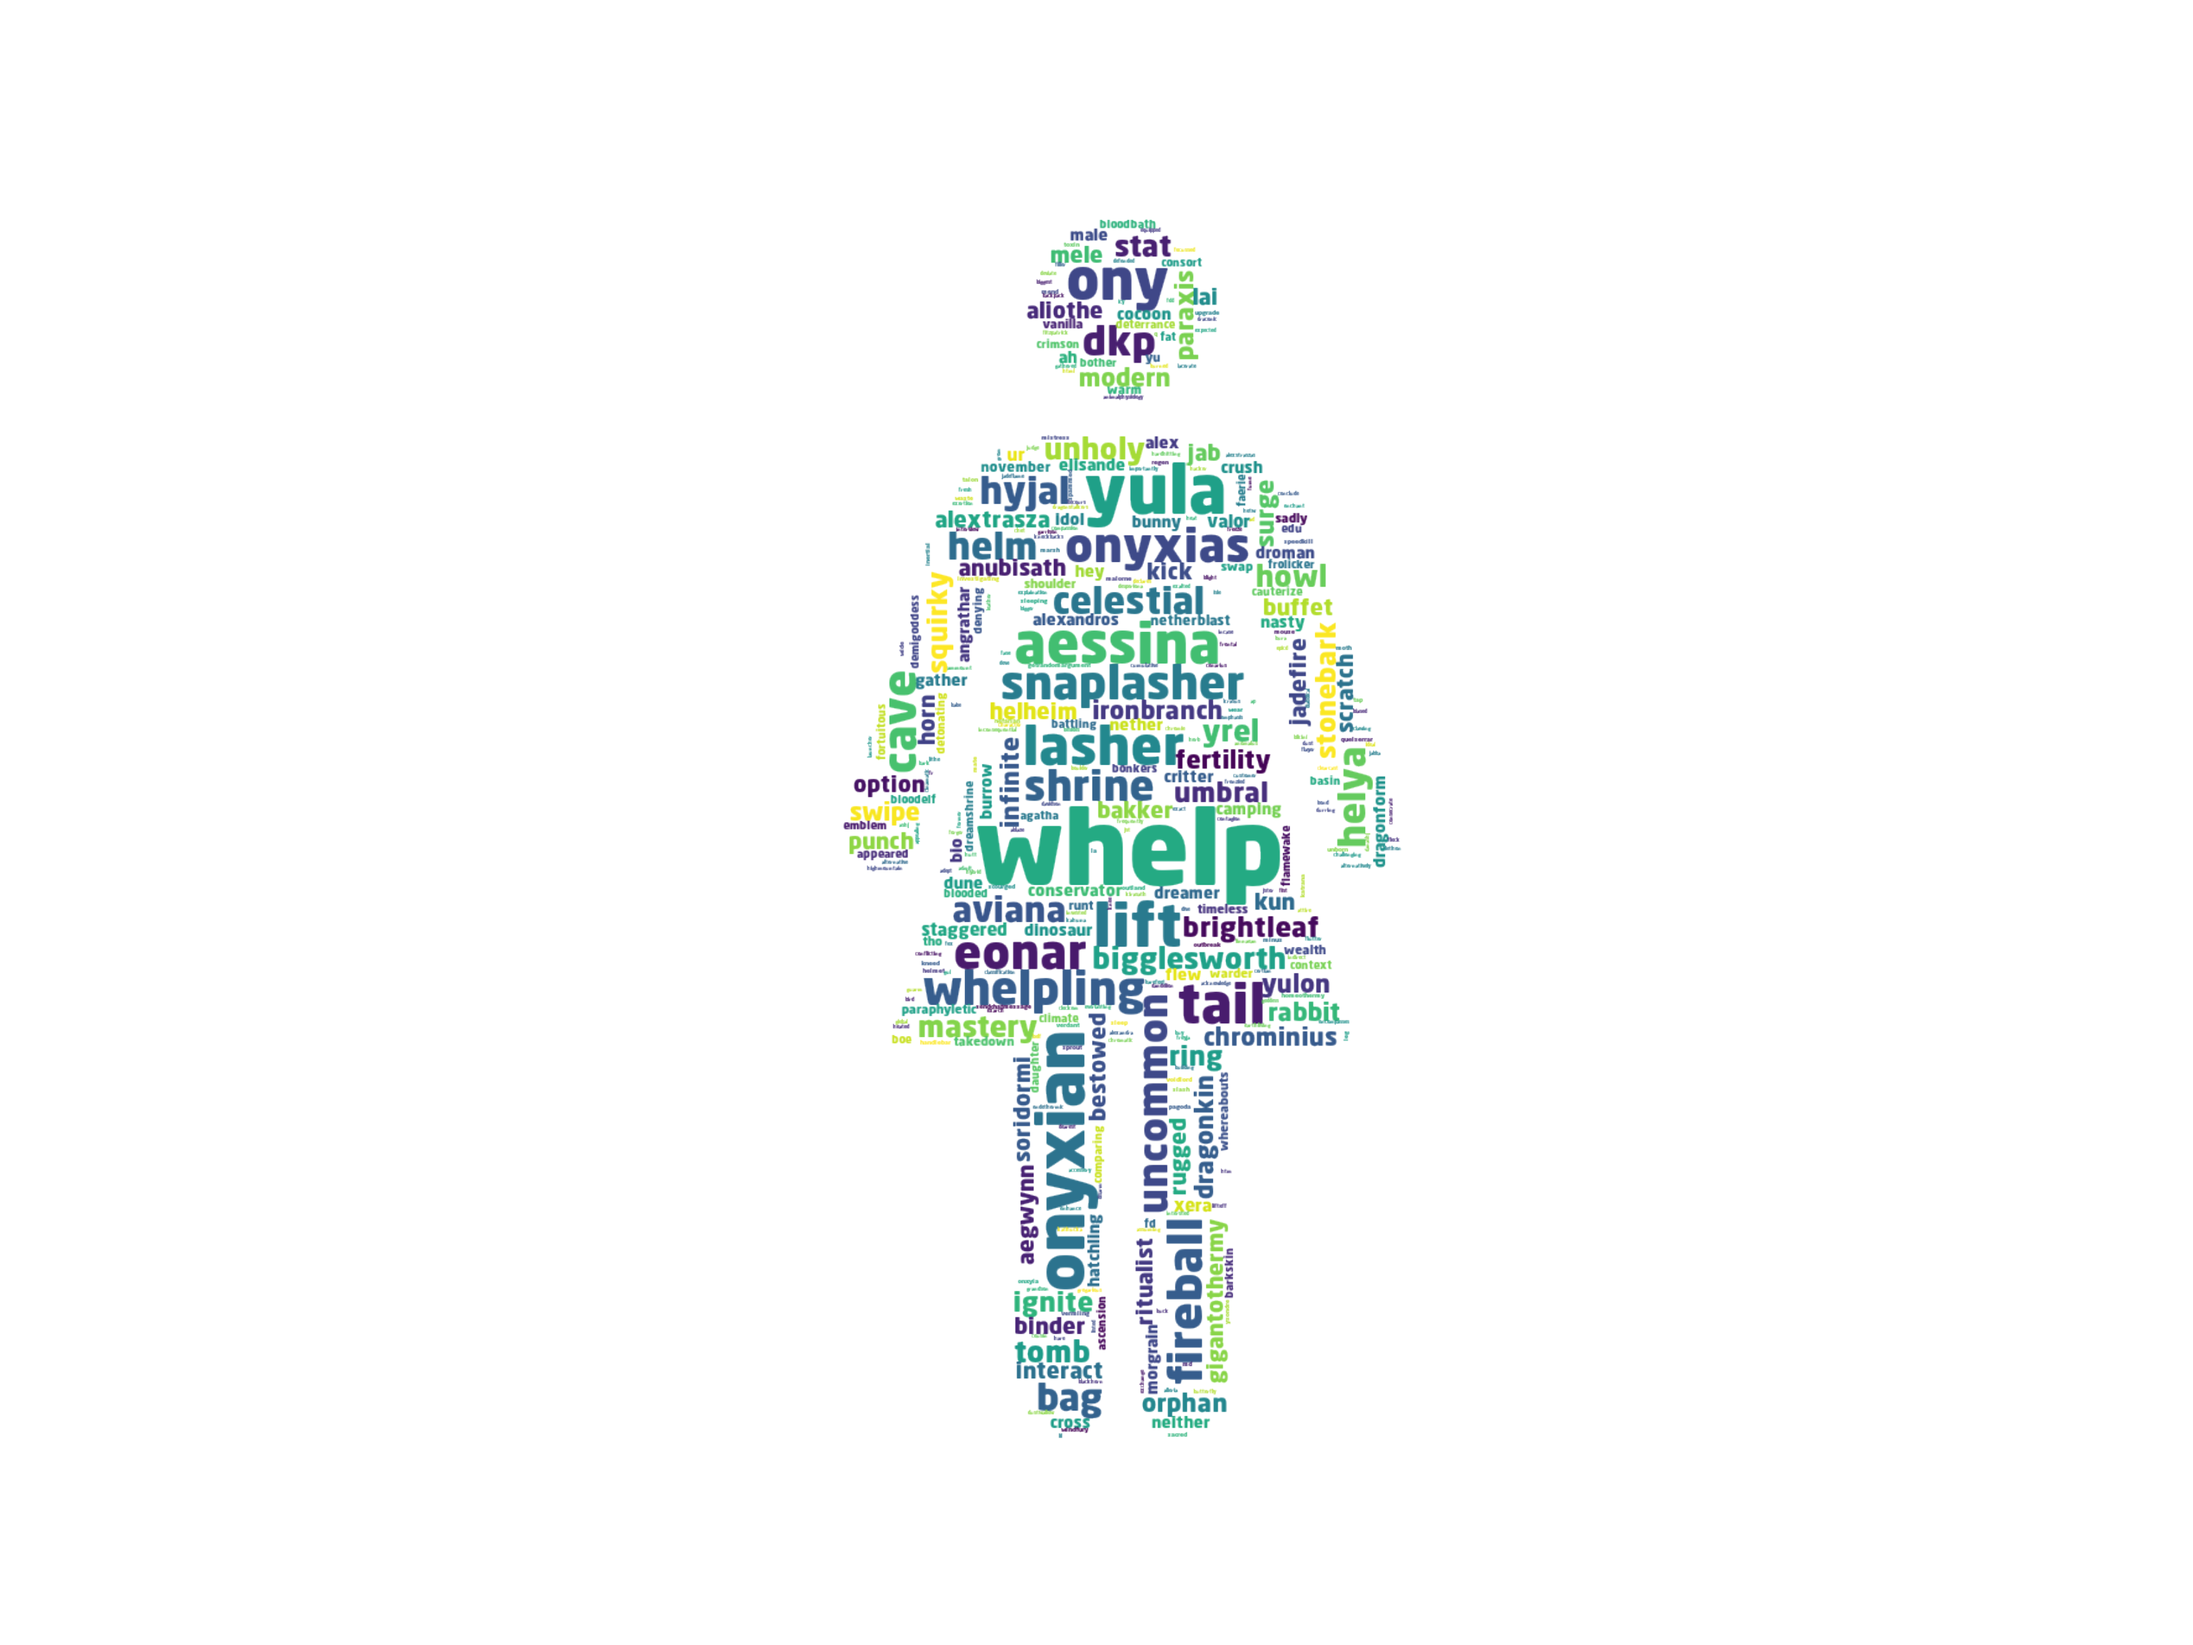
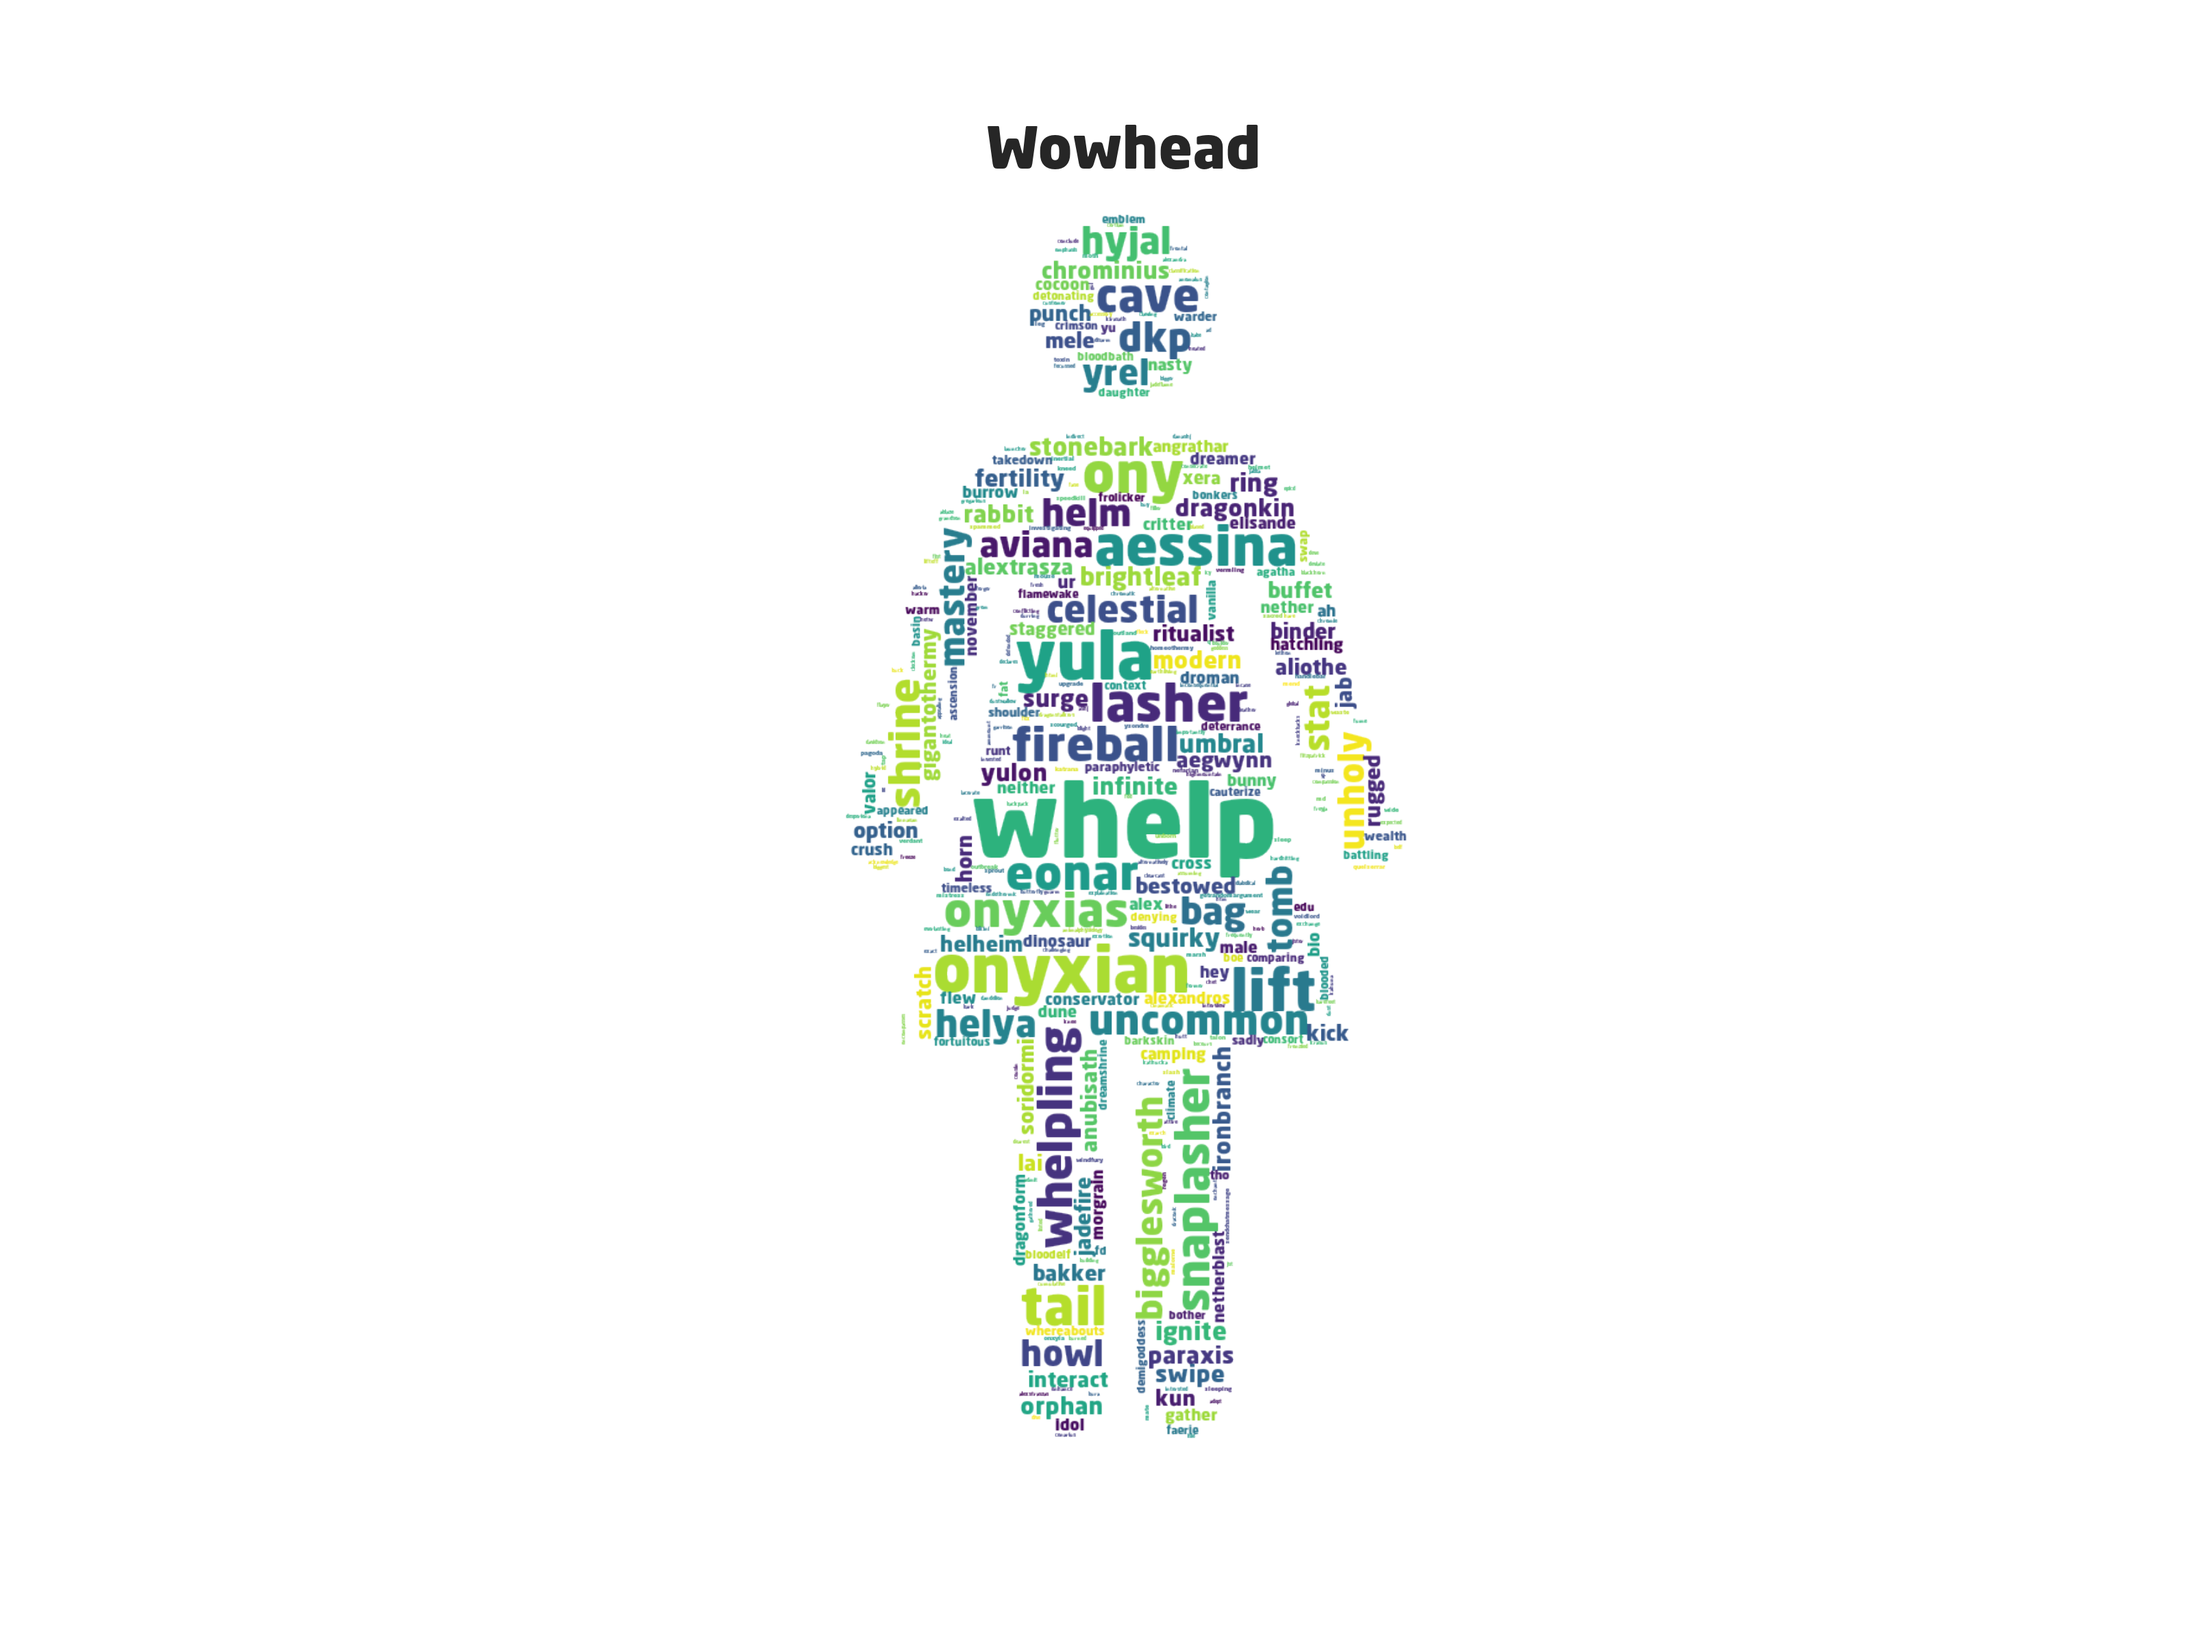
update wordclouds with font

Changed region(s): [[0.375, 0.0625, 0.6562, 0.875]]

diff --git a/text_analysis.py b/text_analysis.py
@@ -108,8 +108,8 @@ for attr in attr_lookup:
     col = pickle.load(open(PATH_RES + attr + '_dict.json', 'rb'))
     for split in attr_lookup[attr]:
         filename = PATH_PLOTS + f'wc_{split}.png'
-        if os.path.isfile(filename):
-            continue
+        # if os.path.isfile(filename):
+        #     continue
 
         # get mask if present
         maskpath = f'./store/masks/{split}.jpg'
@@ -118,6 +118,7 @@ for attr in attr_lookup:
         
         disp_wordcloud(
             split, col,
+            title=source.title(),
             savepath=filename, 
             maskpath=maskpath, 
         )
@@ -126,10 +127,11 @@ for attr in attr_lookup:
 col = pickle.load(open(PATH_RES + 'Louvain_dict.json', 'rb'))
 for i, com_name in enumerate(com_names):
     filename = PATH_PLOTS + f'wc_com_{i}.png'
-    if os.path.isfile(filename):
-            continue
+    # if os.path.isfile(filename):
+    #         continue
     
     disp_wordcloud(
         i, col,
+        title=source.title(),
         savepath=filename
     )

diff --git a/text_helpers.py b/text_helpers.py
@@ -5,6 +5,9 @@ from PIL import Image
 from tqdm import tqdm
 from wordcloud import WordCloud
 import matplotlib.pyplot as plt
+from matplotlib import font_manager as fm
+
+FONT_PATH = "./store/NeoSans Black.otf"
 
 
 def init_collection(df, attr, path_words, words_corpus):
@@ -100,16 +103,19 @@ def disp_wordcloud(col_idx, collection, maskpath='', savepath='', title=''):
             mask=mask,
             background_color="rgba(255, 255, 255, 0)", 
             mode="RGBA",
-            font_path="./store/NeoSans Black.otf",
+            font_path=FONT_PATH,
         )
         .generate(collection[col_idx]['wordcloud'])
         .to_array()
     )
     
     plt.imshow(wc, interpolation="bilinear")
+    if title != '':
+        prop = fm.FontProperties(fname=FONT_PATH)
+        plt.title(title, fontproperties=prop)
     plt.axis("off")
     if savepath != '':
-        plt.savefig(savepath, transparent=True, dpi=500)
+        plt.savefig(savepath, transparent=False, dpi=500)
         plt.close()
     else:
         plt.show()
